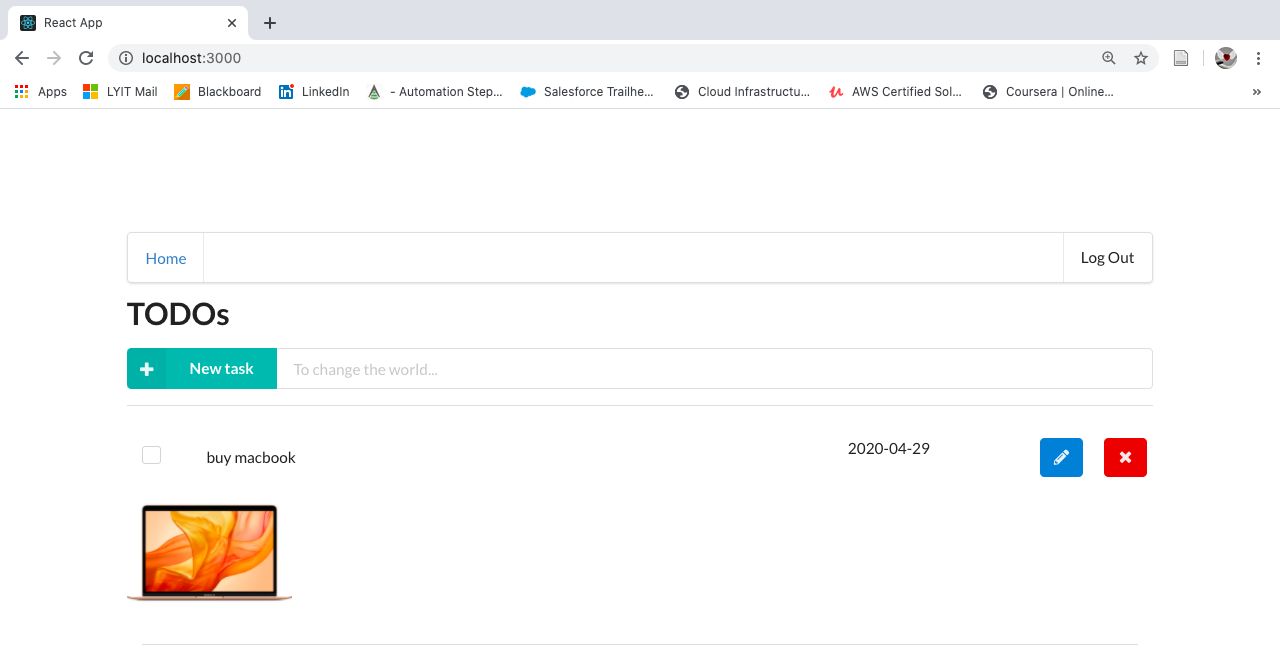
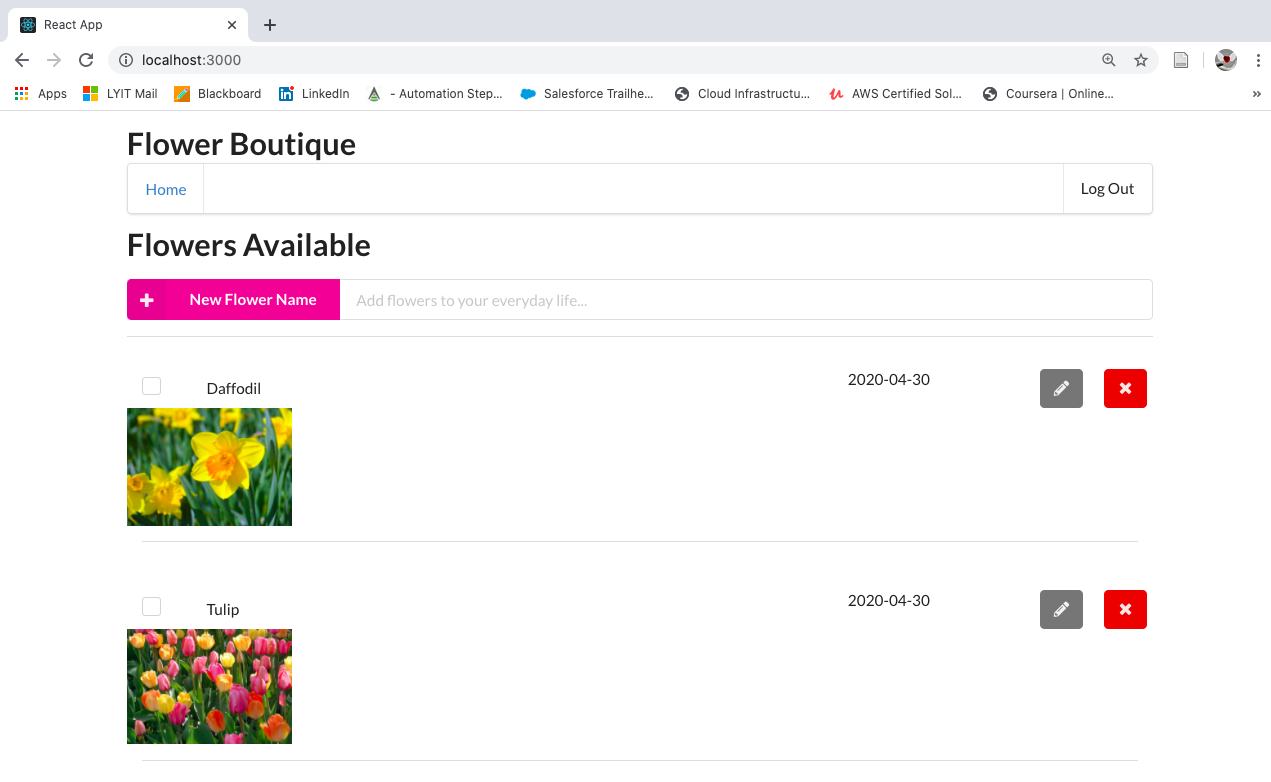
first commit

diff --git a/client/src/components/Todos.tsx b/client/src/components/Todos.tsx
@@ -104,7 +104,7 @@ export class Todos extends React.PureComponent<TodosProps, TodosState> {
   render() {
     return (
       <div>
-        <Header as="h1">TODOs</Header>
+        <Header as="h1">Flowers Available</Header>
 
         {this.renderCreateTodoInput()}
 
@@ -119,15 +119,15 @@ export class Todos extends React.PureComponent<TodosProps, TodosState> {
         <Grid.Column width={16}>
           <Input
             action={{
-              color: 'teal',
+              color: 'pink',
               labelPosition: 'left',
               icon: 'add',
-              content: 'New task',
+              content: 'New Flower Name',
               onClick: this.onTodoCreate
             }}
             fluid
             actionPosition="left"
-            placeholder="To change the world..."
+            placeholder="Add flowers to your everyday life..."
             onChange={this.handleNameChange}
           />
         </Grid.Column>
@@ -177,7 +177,7 @@ export class Todos extends React.PureComponent<TodosProps, TodosState> {
               <Grid.Column width={1} floated="right">
                 <Button
                   icon
-                  color="blue"
+                  color="grey"
                   onClick={() => this.onEditButtonClick(todo.todoId)}
                 >
                   <Icon name="pencil" />

diff --git a/client/src/App.tsx b/client/src/App.tsx
@@ -35,10 +35,13 @@ export default class App extends Component<AppProps, AppState> {
 
   render() {
     return (
-      <div>
+      <div className="App section"> 
         <Segment style={{ padding: '8em 0em' }} vertical>
           <Grid container stackable verticalAlign="middle">
             <Grid.Row>
+            <Grid.Column width={16}>
+              <div className="app-header"><h1>Flower Boutique</h1></div>
+              </Grid.Column>
               <Grid.Column width={16}>
                 <Router history={this.props.history}>
                   {this.generateMenu()}
@@ -47,6 +50,9 @@ export default class App extends Component<AppProps, AppState> {
                 </Router>
               </Grid.Column>
             </Grid.Row>
+            <Grid.Column width={16} textAlign={"center" }  >
+              <div className="app-footer"><footer id='footer-content'>©2020, All Rights reserved.</footer></div>
+            </Grid.Column>
           </Grid>
         </Segment>
       </div>

diff --git a/client/src/components/LogIn.tsx b/client/src/components/LogIn.tsx
@@ -18,7 +18,7 @@ export class LogIn extends React.PureComponent<LogInProps, LogInState> {
       <div>
         <h1>Please log in</h1>
 
-        <Button onClick={this.onLogin} size="huge" color="olive">
+        <Button onClick={this.onLogin} size="huge" color="pink">
           Log in
         </Button>
       </div>
